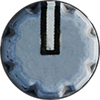
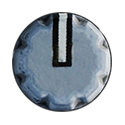
Cosmetic Apache changes for knobs and TEDAC mode switch inversion (#597)
* Apache CMWS knob adjustment

* More cosmetic control knob changes for the Apache

* AH-64D TEDAC mode switch adjustment

* AH-64D Submodule commit for TEDAC Mode switch inversion

* Returning TEDAC gauge mode knob to original state

* Reverting interface change and adjusting TEDAC mode switch

* Still tweaking TEDAC mode switch

* more switch changes for TEDAC

* More TEDAC changes

* More changes to TEDAC

* Re-enable Apache JSON interface

* AH-64D Submodule commit for TEDAC Mode switch inversion #596
AH-64D TEDAC mode switch adjustment
More cosmetic control knob changes for the Apache
Apache CMWS knob adjustment

diff --git a/Helios/Gauges/AH-64D/TEDAC/TEDAC.cs b/Helios/Gauges/AH-64D/TEDAC/TEDAC.cs
@@ -72,9 +72,9 @@ namespace GadrocsWorkshop.Helios.Gauges.AH64D.TEDAC
             AddRocker("Elevation Rocker", 16, 802, _interfaceDevice, "EL Adjust Rocker Switch");
             AddRocker("Azimuth Rocker", 190, 1003, _interfaceDevice, "AZ Adjust Rocker Switch", true);
 
-            AddThreePositionRotarySwitch("Display Mode", new Point(833d,18d),new Size(75d,75d), _interfaceDevice, "Display Mode");
-            AddPot("FLIR Gain", new Point(10, 427), new Size(75d, 75d), "FLIR GAIN Control");
-            AddPot("FLIR Level", new Point(10, 220), new Size(75d, 75d), "FLIR LEV Control");
+            AddThreePositionRotarySwitch("Display Mode", new Point(823d,12d),new Size(95d,95d), _interfaceDevice, "Display Mode");
+            AddPot("FLIR Gain", new Point(0, 417), new Size(95d, 95d), "FLIR GAIN Control");
+            AddPot("FLIR Level", new Point(0, 210), new Size(95d, 95d), "FLIR LEV Control");
 
         }
         public string ViewportName
@@ -240,10 +240,11 @@ namespace GadrocsWorkshop.Helios.Gauges.AH64D.TEDAC
             knob.DrawLabels = false;
             knob.DrawLines = false;
             knob.Positions.Clear();
-            knob.Positions.Add(new Helios.Controls.RotarySwitchPosition(knob, 0, "Off", 135d));
+            knob.ClickType = RotaryClickType.Swipe;
+            knob.Positions.Add(new Helios.Controls.RotarySwitchPosition(knob, 0, "Day", 45d));
             knob.Positions.Add(new Helios.Controls.RotarySwitchPosition(knob, 1, "Night", 90d));
-            knob.Positions.Add(new Helios.Controls.RotarySwitchPosition(knob, 2, "Day", 45d));
-            knob.CurrentPosition = 1;
+            knob.Positions.Add(new Helios.Controls.RotarySwitchPosition(knob, 2, "Off", 135d));
+            knob.CurrentPosition = 0;
             knob.Top = posn.Y;
             knob.Left = posn.X;
             knob.Width = size.Width;

diff --git a/Helios/Interfaces/DCS/AH64D/AH-64DInterface.cs b/Helios/Interfaces/DCS/AH64D/AH-64DInterface.cs
@@ -938,10 +938,10 @@ namespace GadrocsWorkshop.Helios.Interfaces.DCS.AH64D
 
             // see if we can restore from JSON
             #if (!DEBUG)
-            if (LoadFunctionsFromJson())
-            {
-                return;
-            }
+                        if (LoadFunctionsFromJson())
+                        {
+                            return;
+                        }
             #endif
 #region MPDs
             #region Pilot Left
@@ -1322,7 +1322,7 @@ namespace GadrocsWorkshop.Helios.Interfaces.DCS.AH64D
             AddFunction(new PushButton(this, TEDAC, tedac_commands.TDU_B4.ToString("d"), "159", "TEDAC", "FILTER Button"));  // Press to select filter in the TADS FLIR sensor
             AddFunction(new Axis(this, TEDAC, tedac_commands.TDU_GAIN_KNOB.ToString("d"), "148", 0.1d, 0d, 1d, "TEDAC", "FLIR GAIN Control"));
             AddFunction(new Axis(this, TEDAC, tedac_commands.TDU_LEV_KNOB.ToString("d"), "149", 0.1d, 0d, 1d, "TEDAC", "FLIR LEV Control"));
-            AddFunction(Switch.CreateThreeWaySwitch(this, TEDAC, tedac_commands.TDU_MODE_KNOB.ToString("d"), "154", "1.0", "Day", "0.5", "Night", "0.0", "Off", "TEDAC", "Display Mode", "%0.1f"));
+            AddFunction(Switch.CreateThreeWaySwitch(this, TEDAC, tedac_commands.TDU_MODE_KNOB.ToString("d"), "154", "0.0", "Day", "0.5", "Night", "1.0", "Off", "TEDAC", "Display Mode", "%0.1f"));
 #endregion
 #region Video Control Panel,
             AddFunction(new Axis(this, ELEC_INTERFACE, electric_commands.VCP_IHADSS_BRT_KNOB.ToString("d"), "278", 0.1d, 0d, 1d, "Video Control Panel", "IHADSS BRT Control Knob"));

diff --git a/Helios/Gauges/AH-64D/CMWS/CMWSDisplay.cs b/Helios/Gauges/AH-64D/CMWS/CMWSDisplay.cs
@@ -58,9 +58,9 @@ namespace GadrocsWorkshop.Helios.Gauges.AH64D.CMWS
             _frameBezelPanel.FillBackground = false;
             _frameBezelPanel.DrawBorder = false;
 
-            AddThreePositionRotarySwitch("Power Switch", new Point(80d, 62d), new Size(70d, 70d), _interfaceDeviceName, "Power Switch");
-            AddPot("Audio Volume", new Point(456d, 21d), new Size(50d, 50d), "Audio Volume Knob");
-            AddPot("Display Brightness", new Point(456d, 110d), new Size(50d, 50d), "Brightness Knob");
+            AddThreePositionRotarySwitch("Power Switch", new Point(63d, 45d), new Size(105d, 105d), _interfaceDeviceName, "Power Switch");
+            AddPot("Audio Volume", new Point(450d, 15d), new Size(62d, 62d), "Audio Volume Knob");
+            AddPot("Display Brightness", new Point(450d, 104d), new Size(62d, 62d), "Brightness Knob");
             AddTwoWayToggle("Arm", new Point(127d, 274d), new Size(60d, 120d), _interfaceDeviceName, "Arm Switch");
             AddTwoWayToggle("Mode", new Point(244d, 274d), new Size(60d, 120d), _interfaceDeviceName, "Mode Switch",ToggleSwitchPosition.One);
             AddTwoWayToggle("Operation", new Point(361d, 274d), new Size(60d, 120d), _interfaceDeviceName, "Operation Switch");

diff --git a/Helios/Gauges/AH-64D/MFD/MFD.cs b/Helios/Gauges/AH-64D/MFD/MFD.cs
@@ -106,9 +106,9 @@ namespace GadrocsWorkshop.Helios.Gauges.AH64D.MFD
             AddButton("Button B6", new Point(493, ypos));
             AddButton("Button A/C", new Point(553, ypos), 50d,"A/C");
 
-            AddThreePositionRotarySwitch("Display Mode", new Point(557d,13d),new Size(50d,50d), _interfaceDevice, "Mode Knob");
-            AddPot("Brightness Control", new Point(30, 97), new Size(50d, 50d), "Brightness Control Knob");
-            AddPot("Video Control", new Point(114, 13), new Size(50d, 50d), "Video Control Knob");
+            AddThreePositionRotarySwitch("Display Mode", new Point(551d,7d),new Size(62d,62d), _interfaceDevice, "Mode Knob");
+            AddPot("Brightness Control", new Point(24d, 91d), new Size(62d, 62d), "Brightness Control Knob");
+            AddPot("Video Control", new Point(108d, 7d), new Size(62d, 62d), "Video Control Knob");
 
         }
         public string ViewportName

diff --git a/Helios/Gauges/AH-64D/KU/KU.cs b/Helios/Gauges/AH-64D/KU/KU.cs
@@ -59,7 +59,7 @@ namespace GadrocsWorkshop.Helios.Gauges.AH64D.KU
 
             // Top Row 104 Bottom Row 334
             // Left col 39 Right Col 520 
-            AddPot("Brightness Control", new Point(65d, 395d), new Size(50d, 50d), "Brightness Control Knob");
+            AddPot("Brightness Control", new Point(59d, 389d), new Size(62d, 62d), "Brightness Control Knob");
             AddTextDisplay("Scratchpad", new Point(58d, 32d), new Size(484d, 52d), _interfaceDevice, "Scratchpad", 22, "KEYBOARD UNIT", TextHorizontalAlignment.Left, "#=$;!=:");
 
         }

diff --git a/Helios/Gauges/AH-64D/EUFD/EUFD.cs b/Helios/Gauges/AH-64D/EUFD/EUFD.cs
@@ -76,7 +76,7 @@ namespace GadrocsWorkshop.Helios.Gauges.AH64D.EUFD
             AddRocker("WCA Switch", 91, 24, _interfaceDevice, "WCA Rocker Switch");
             AddRocker("RTS Switch", 91, 181, _interfaceDevice, "RTS Rocker Switch");
 
-            AddPot("Brightness Control", new Point(821, 88), new Size(60d, 60d), "Brightness Control Knob");
+            AddPot("Brightness Control", new Point(814d, 81d), new Size(75d, 75d), "Brightness Control Knob");
 
         }
         public string ViewportName
